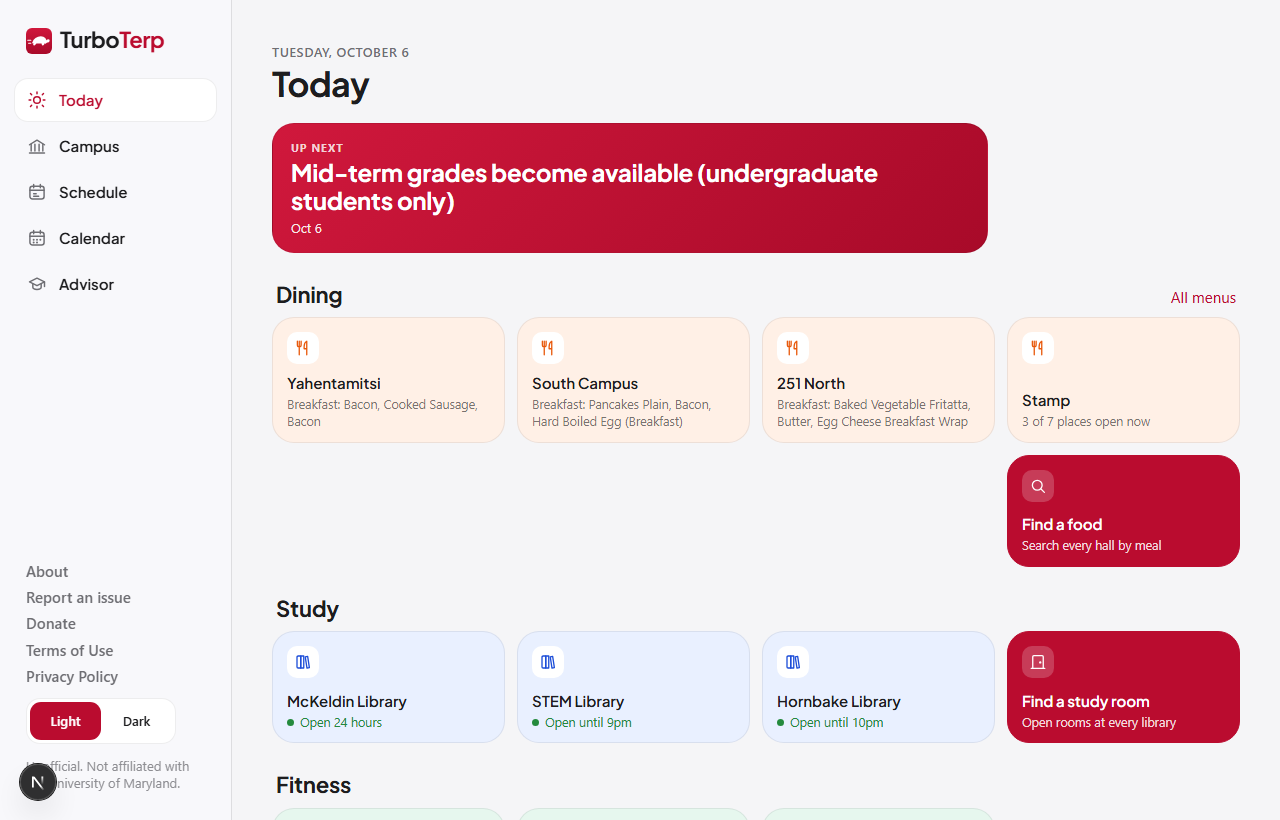
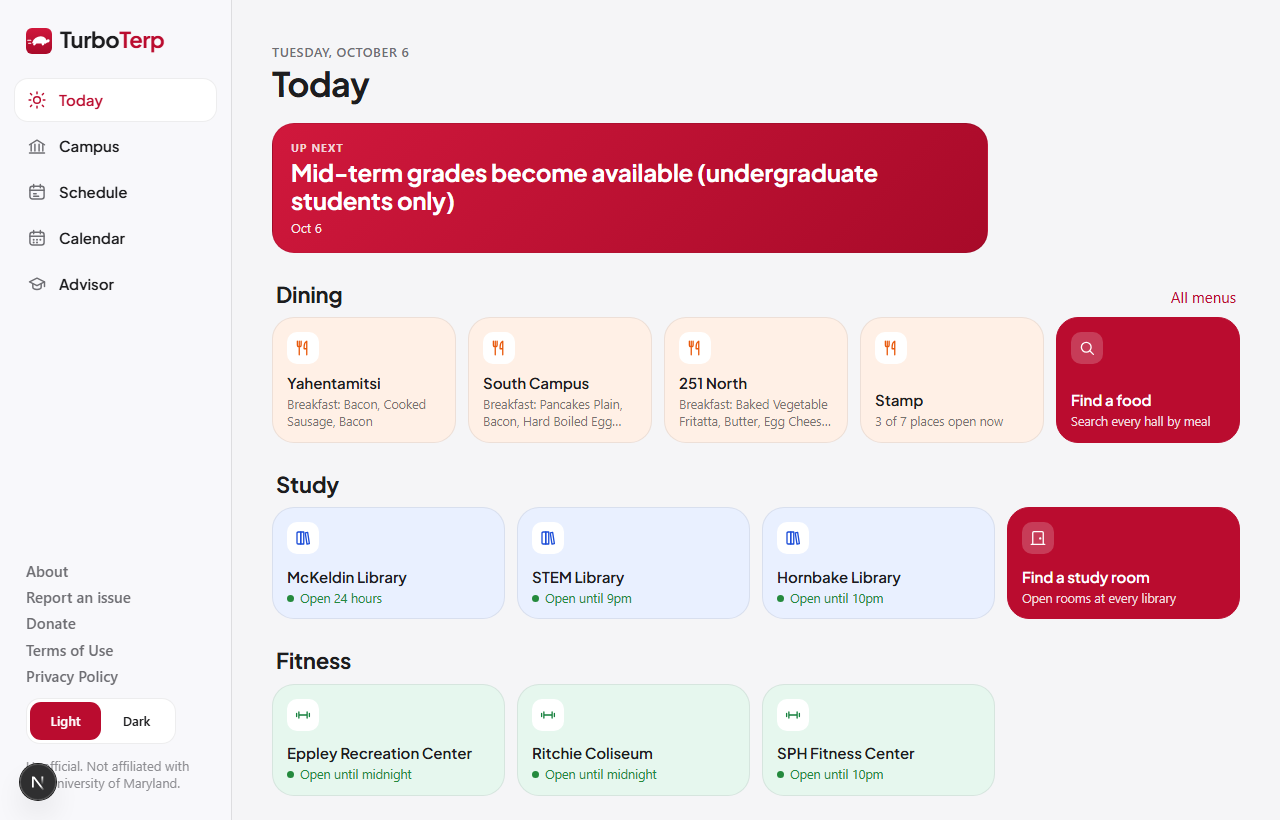
Today: Dining tiles on one line on desktop (TileGrid row), Find a food last

diff --git a/apps/web/components/ui.tsx b/apps/web/components/ui.tsx
@@ -195,8 +195,13 @@ export function Tile({
 }
 
 /** 4 columns on desktop, 2 on phones. */
-export function TileGrid({ children }: { children: ReactNode }) {
-  return <div className={styles.tileGrid}>{children}</div>;
+/** `row`: on desktop, every tile on one line (equal widths) instead of 4 per row. */
+export function TileGrid({ children, row = false }: { children: ReactNode; row?: boolean }) {
+  return (
+    <div className={styles.tileGrid} data-row={row || undefined}>
+      {children}
+    </div>
+  );
 }
 
 /** Next-class hero on the brand gradient. */

diff --git a/apps/web/app/page.tsx b/apps/web/app/page.tsx
@@ -120,7 +120,7 @@ async function Dining({ today, minutes }: { today: string; minutes: number }) {
   const [menus, stamp] = await Promise.all([getAllDiningMenus(today), safe(getStampVenues)]);
   const meal = currentMealName(minutes);
   return (
-    <TileGrid>
+    <TileGrid row>
       {DINING_HALLS.map((hall, i) => {
         const r = menus[i]!;
         const m = r.ok ? (r.data.meals.find((x) => x.name === meal) ?? r.data.meals[0]) : undefined;

diff --git a/apps/web/components/ui.module.css b/apps/web/components/ui.module.css
@@ -298,6 +298,18 @@
   grid-column: -2 / -1;
 }
 
+@media (min-width: 900px) {
+  .tileGrid[data-row] {
+    grid-template-columns: none;
+    grid-auto-flow: column;
+    grid-auto-columns: minmax(0, 1fr);
+  }
+
+  .tileGrid[data-row] > .tile[data-accent]:last-child:not(:only-child) {
+    grid-column: auto;
+  }
+}
+
 .tile {
   --a-tint: var(--surface);
   --a-ink: var(--accent);
